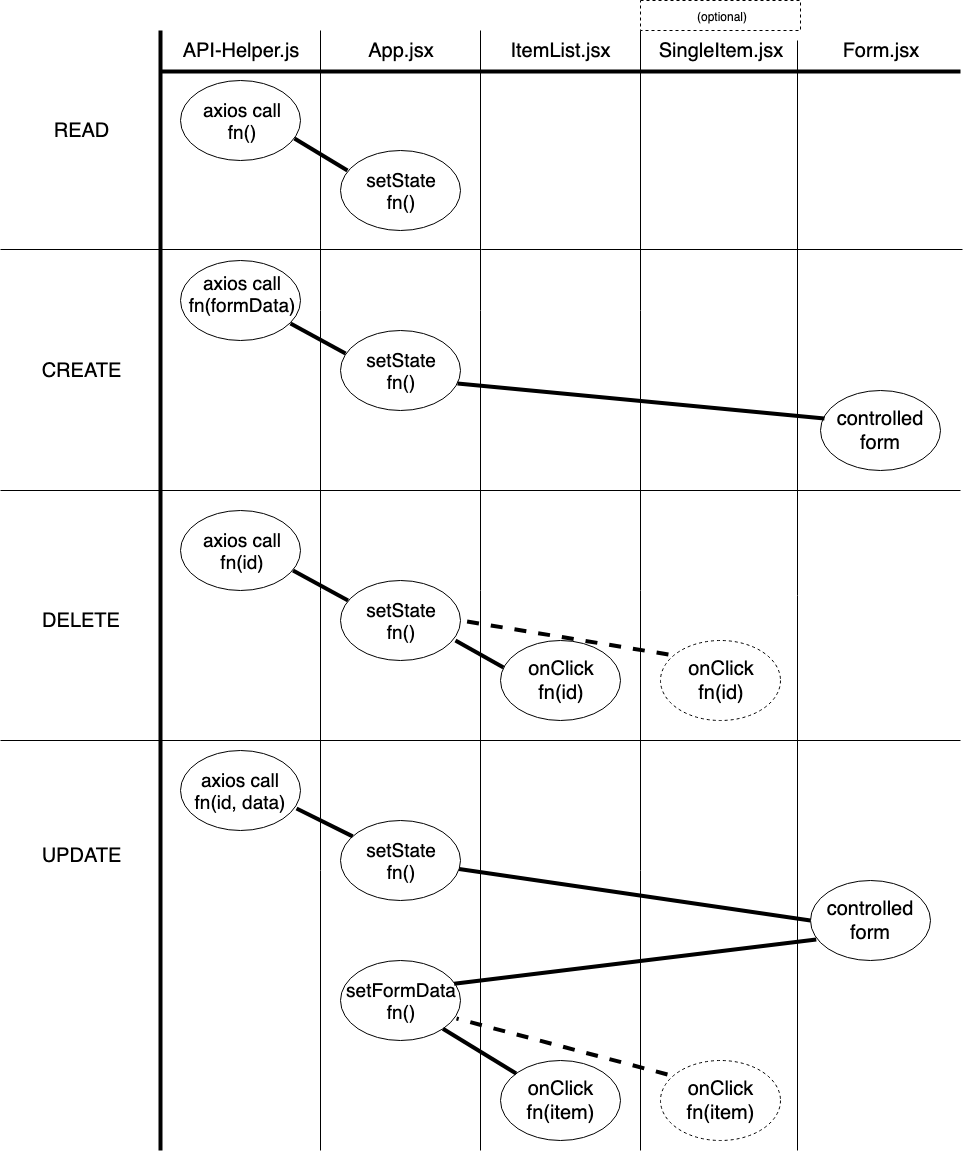
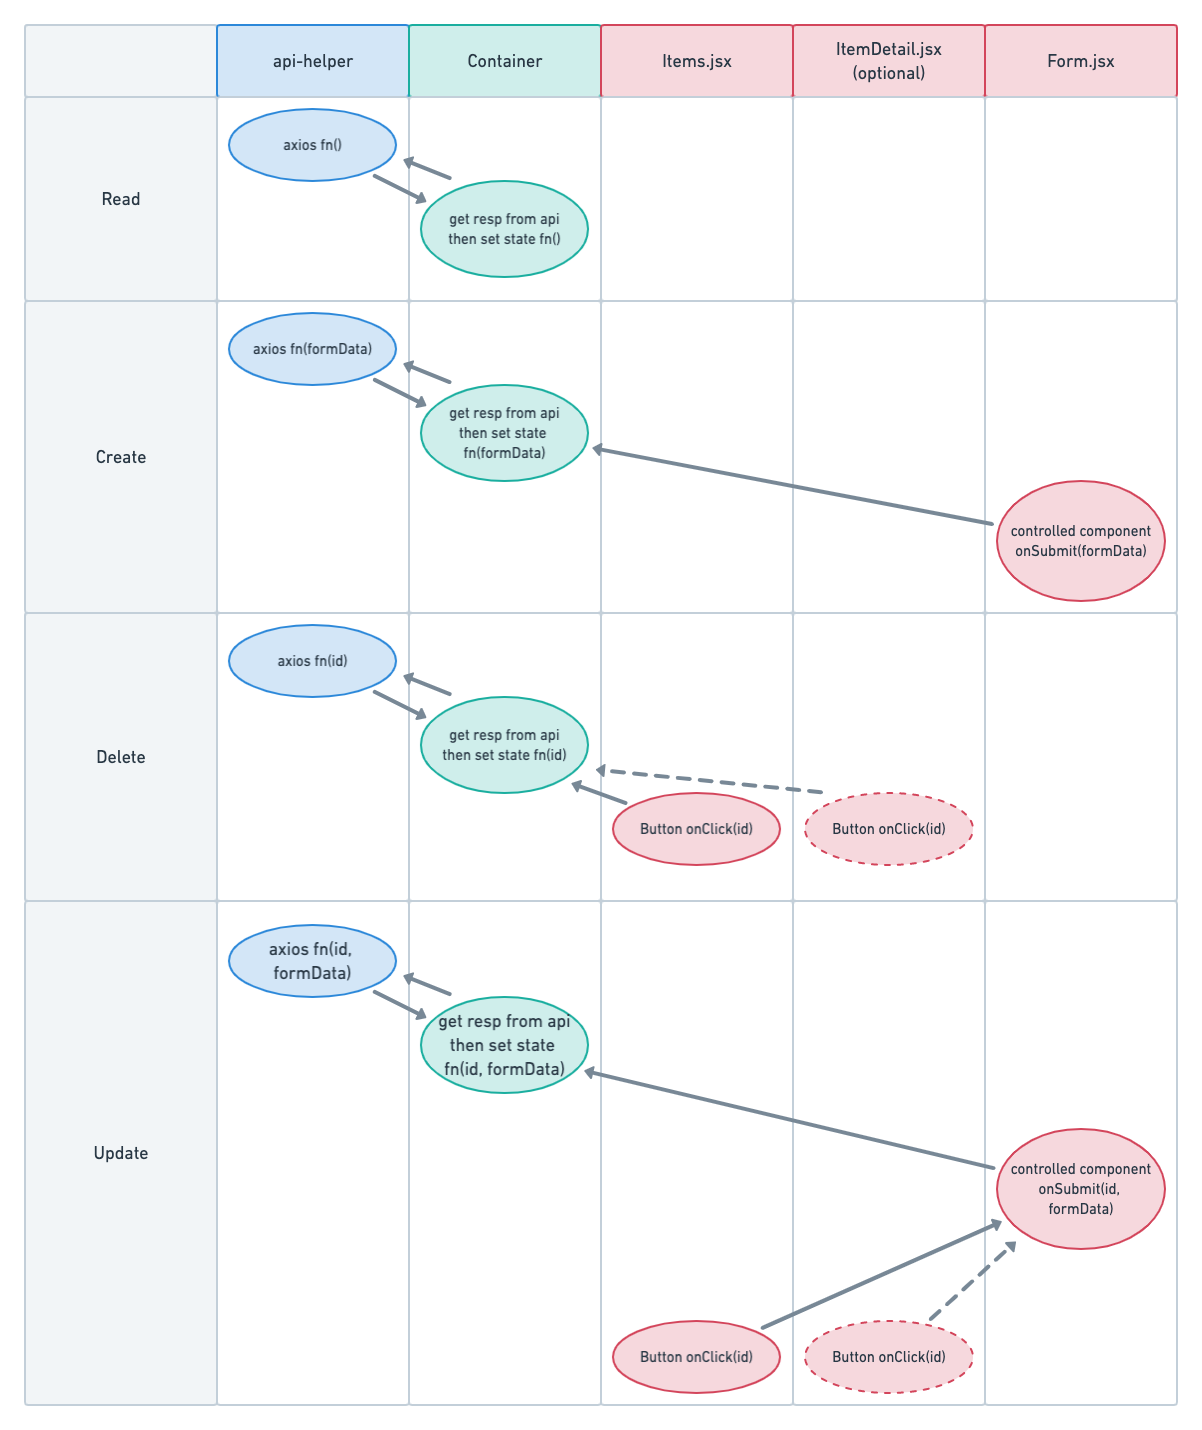
updated README

diff --git a/README.md b/README.md
@@ -84,32 +84,25 @@ So what's next? We don't have much in our app right now outside of these API cal
 
 ![component-tree](./component-tree.png)
 
-It looks like all four of our components are being called in app. This doesn't mean that they are different views though. We could set up multiple views using react router and have them all called in app. But if we wanted to have the create form at the top of our item list, we could call them like this:
-
-```
-<Route path='/' render={() => (
-  <>
-    <CreateForm />
-    <ItemList />
-  </>
-)} />
-```
-
-We still have some freedom over how we want to display the components even when we import them all into app. This also makes our component tree very simple. Unless the design requires something more complex, keeping it simple is pretty nice and easy to maintain.
+It looks like all four of our components are being called from a container component. The container component typically doesn't actually have any rendering jsx tags. It is just there to have on unified place to store state. We can then pass that state down to our various "screens" components that will render that data. This concept is referred to as raising state. It is very important to make sure our state is raised as high as is needs to be in our app. Other wise we will run into problems with the data in state not refreshing with the rest of our app. Or we will find ourselves backed into a corner, where our data is locked in a sibling or child component and we cant access it. Remember, data in react only flows down.
 
 ## Function/Data Placement 
 
-What about our data? Where should we store state? Also where do our methods go? Keeping everything centralized in `App` is an easy approach to this. Later, when we are much more comfortable with web development, it'll be easy to get the feel for where exactly our values need to live. That also requires a good deal of planning before starting a project.
+ Where do our methods go? This is also a good use for our container component. We will need functions in our react app that gets the data from our API call responses and then sets state.
+ 
+ > Note: Prior to React Hooks, these functions needed to be in the same component that we were storing state. Now we have more freedom and can pass the `setState` functions where ever.
+ 
+ In order to stay organized, it's probably a good idea to keep all of this logic separate from our other components. The "screens" and "components" can focus on just displaying data and the "containers" can focus on state.
 
-When we have our methods in `App`, we simply need to pass them down to our child components to be able to call them when we need them. Here's a diagram of how functions flow typically in a CRUD app:
+When we have our methods in a "Container" component, we simply need to pass them down to our child components to be able to call them when we need them. Here's a diagram of how functions flow typically in a CRUD app:
 
 ![function flow](./React-CRUD-functional-flow.png)
 
-There are a lot of moving parts here. If we don't need to have a separate view for a single item, we can just keep our "edit" and "delete" button on the items in our item list. Them we could remove the `SingleItem` component from this list.
+There are a lot of moving parts here. If we don't need to have a separate view for a single item, we can just keep our "edit" and "delete" button on the items in our item list. Then we could remove the `ItemDetail` component from this list.
 
 ### Read
 
-Looking at this diagram, we see that `read` looks pretty simple. It's a function in api-helper that makes our axios call and another function in App that sets state. We could call our setState function in `componentDidMount` if we wanted our data to load with the page.
+Looking at this diagram, we see that `read` looks pretty simple. It's a function in api-helper that makes our axios call and another function in App that sets state. We could call our setState function in a `useEffect` if we wanted our data to load with the page.
 
 ### Create
 
@@ -117,22 +110,24 @@ Create is the same but it needs to get data from the form first. Also, it isn't 
 
 ### Delete
 
-Delete doesn't need form data, but it does need the id of a single item. We can get this from the `.map` inside of our item list or from the individual item view, if we have it. We can trigger this function with the onClick of a button.
+Delete doesn't need form data, but it does need the `id` of a single item. We can get this from the `.map` inside of our item list screen or from the individual item screen, if we have it. We can trigger this function with the onClick of a button.
 
 ### Update
 
-Update has the most moving parts here, but it's really just a combination of delete and create. We start with an onClick in the item list or single item page view. We need to grab the entire item, including its id and save it in state in App. We'll need our id once the update form is submitted. We need to replace our empty form data in state with the rest of the items data. If we redirect the user to the update form now, they should be looking at a form with the items already in it, ready to be updated. From here, it's the same as create. On submit, the form data is sent to our API call and then set in state of our app.
+Update has the most moving parts here, but it's really just a combination of delete and create. We start with an onClick in the item list or single item page view. We need to pass the `id` along to the edit form component. That will allow us to find the data for the item to pre-populate our edit form. We'll also need the `id` once the update form is submitted. We need to replace our empty form data in state with the item's data. The user should be looking at a form with the items already in it, ready to be updated. From here, it's the same as create. On submit, the form data is sent to our API call and then set in state of our app.
 
-The only function that we are missing from the diagram is for our controlled component: `handleChange`. That should live in App since that is where the state for our form data is. As for `handleSubmit`, our setState functions for create and update are our handleSubmit functions.
+The only function that we are missing from the diagram is for our controlled component: `handleChange`. The `formData` state and `handleChange` can be contained in the form component since it is not used anywhere else in our app.
 
 ## Setting State
 
-We have four different setState functions in our app and they all need to behave differently. Let's look at how they should look and see what they are doing.
+We have four different setState functions in our app and they all need to behave differently. Let's look at how they should look and see what they are doing. This is assuming that we are dealing with a list of `items` that started off as an empty array when we instantiate our `useState`.
+
+>example: `const [items, setItems] = useState([])`
 
 ### Read
 
 ```
-this.setState({ items });
+setItems(items);
 ```
 
 This one is pretty simple since it only needs to set up our initial state.
@@ -140,32 +135,30 @@ This one is pretty simple since it only needs to set up our initial state.
 ### Create
 
 ```
-this.setState(prevState => ({
-  items: [...prevState.items, newItem]
-}))
+setItems(prevState => ([...prevState.items, newItem]))
 ```
 
-State is immutable and we can't change it. However we _can_ replace state with something new. This is where `prevState` comes in handy. In this `setState`, we are replacing `items` with a new array. Inside that array, we spread out all the contents of the items that were in state previously and add our new item.
+State is immutable and we can't change it. However we _can_ replace state with something new. This is where `prevState` comes in handy. In this `setItems`, we are replacing `items` with a new array. Inside that array, we spread out all the contents of the items that were in state previously and add our new item.
 
 ### Update
 
 ```
-this.setState(prevState => ({
-  items: prevState.items.map(item => item.id === updatedId ? newItem : item)
-})
+setItems(prevState => (prevState.items.map(item => {
+  return item.id === updatedId ? newItem : item
+}))
 ```
 
-Update again seems like it has a lot going on but it's only three different pieces that we're all familiar with.
+Update again seems like it has a lot going on but we can break it down to three different pieces that we're all familiar with.
 
-1. First, we setState with prevState.
+1. First, we setItems with prevState.
 2. Next, we map through our previous items. remember, `.map` returns a new array so we are still replacing state and not mutating it.
-3. inside our map, we have a ternary. It is checking for the item id that matches the id of the item we updated. For that one item, we return our updated item from our api call. For all other items, we return the previous item.
+3. Inside our map, we have a ternary. It is checking for the item id that matches the id of the item we updated. For that one item, we return our updated item from our api call. For all other items, we return the previous item.
 
 ### Delete
 
 ```
-this.setState(prevState => ({
-  items: prevState.item.filter(item => item.id !== deletedId)
+this.setState(prevState => {
+  prevState.item.filter(item => item.id !== deletedId)
 })
 ```
 
